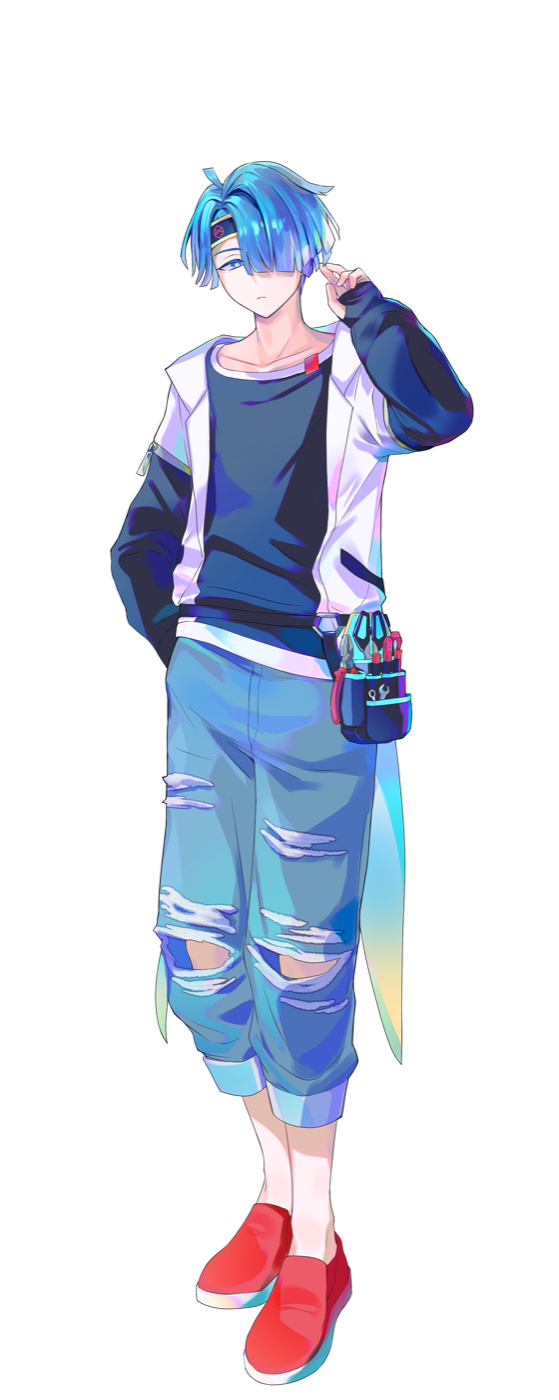
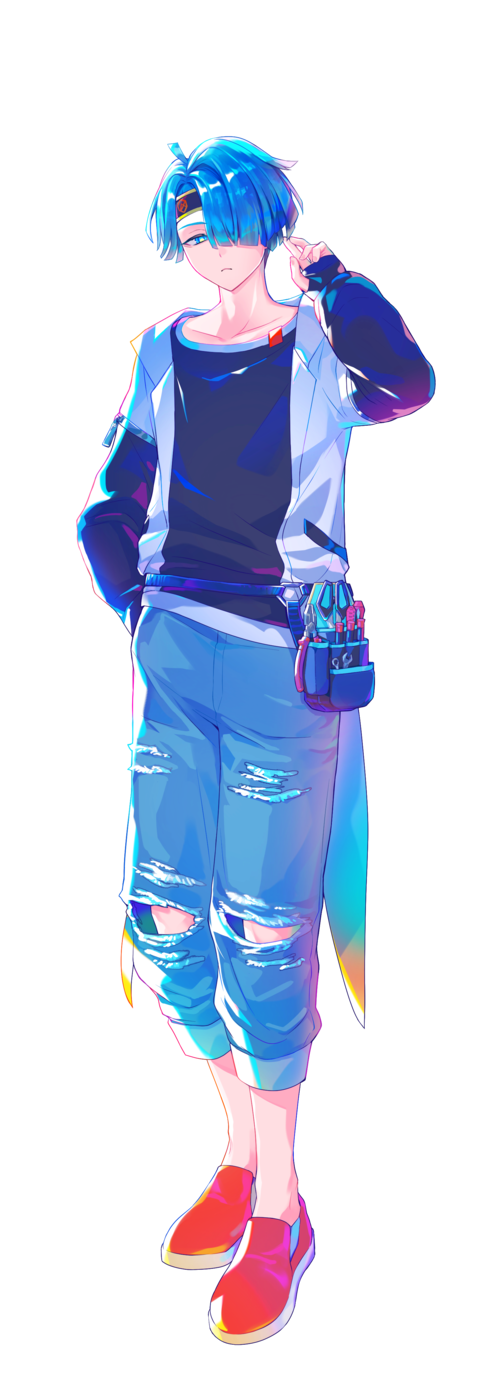
feat: 立ち絵を最新素材に差し替えアシェを追加

diff --git a/src/data/characters.ts b/src/data/characters.ts
@@ -33,7 +33,7 @@ export const CHARACTERS: Character[] = [
   {
     slug: "taylor",
     image: "/characters/taylor.png",
-    art: { headTop: 7.6, feet: 94.8, cx: 45.8, heightCm: 165 },
+    art: { headTop: 12.7, feet: 99.5, cx: 48, heightCm: 165 },
     name: "テイラー",
     nameEn: "Taylor",
     role: "主人公 / 仕立て屋",
@@ -55,7 +55,7 @@ export const CHARACTERS: Character[] = [
   {
     slug: "cyan",
     image: "/characters/cyan.png",
-    art: { headTop: 10.4, feet: 98.9, cx: 47, heightCm: 162 },
+    art: { headTop: 10.5, feet: 96.1, cx: 44, heightCm: 162 },
     name: "シアン",
     nameEn: "Cyan",
     role: "自動人形",
@@ -77,7 +77,7 @@ export const CHARACTERS: Character[] = [
   {
     slug: "m",
     image: "/characters/m.png",
-    art: { headTop: 17.4, feet: 96.8, cx: 45, heightCm: 156 },
+    art: { headTop: 19.5, feet: 95.8, cx: 49, heightCm: 156 },
     name: "エム",
     nameEn: "M",
     role: "自動人形",
@@ -99,7 +99,7 @@ export const CHARACTERS: Character[] = [
   {
     slug: "soga",
     image: "/characters/soga.png",
-    art: { headTop: 2.0, feet: 96.6, cx: 43, heightCm: 182 },
+    art: { headTop: 5, feet: 99.4, cx: 51, heightCm: 182 },
     name: "ソガ",
     nameEn: "Soga",
     role: "自動人形",
@@ -120,6 +120,8 @@ export const CHARACTERS: Character[] = [
   },
   {
     slug: "acier",
+    image: "/characters/acier.png",
+    art: { headTop: 6.5, feet: 95.4, cx: 48, heightCm: 176 },
     name: "アシェ",
     nameEn: "Acier",
     role: "自動人形",
@@ -141,7 +143,7 @@ export const CHARACTERS: Character[] = [
   {
     slug: "key",
     image: "/characters/key.png",
-    art: { headTop: 1.5, feet: 98.4, cx: 48, heightCm: 178 },
+    art: { headTop: 6, feet: 98.4, cx: 49, heightCm: 178 },
     name: "キイ",
     nameEn: "Key",
     role: "助手",

diff --git a/CLAUDE.md b/CLAUDE.md
@@ -20,7 +20,9 @@ This file provides guidance to Claude Code (claude.ai/code) when working with co
 - `characters.ts` — キャラ紹介 (一覧・個別ページ共用)。**ネタバレ方針**: 隠しルート・二周目要素・各キャラの核心設定 (`Docs/narrative/` の「重要ポイント」) は掲載しない。出典はゲーム側リポジトリ `../color-recollection/Docs/narrative/`
 - `news.ts` / `creators.ts` — 新しい順に追記するだけ
 
-画像素材 (`public/characters/`, `public/screenshots/`, `logo.svg`) はゲーム側リポジトリからコピーしたもの。差し替え時は sips でリサイズ・JPEG 化して軽量化する。
+画像素材 (`public/screenshots/`, `logo.svg`) はゲーム側リポジトリからコピーしたもの。差し替え時は sips でリサイズ・JPEG 化して軽量化する。
+
+立ち絵 (`public/characters/<slug>.png`) はチームの Google Drive 素材 (`キャラ/立ち絵<名前>/` の通常表情の最新版) が出典。ゲーム側リポジトリは更新が追いついていないことがあるので見ない。全キャラ同じキャンバス (1600×4482) なので、トリミングせず高さ 1400px に縮小した透過 PNG を置き、`characters.ts` の `art` (頭頂・足元・顔中心の %) を測り直す。足元はアルファの外接矩形、頭頂と顔中心は目盛りを重ねた画像で目視する。
 
 ## SEO / クローラー対応
 
